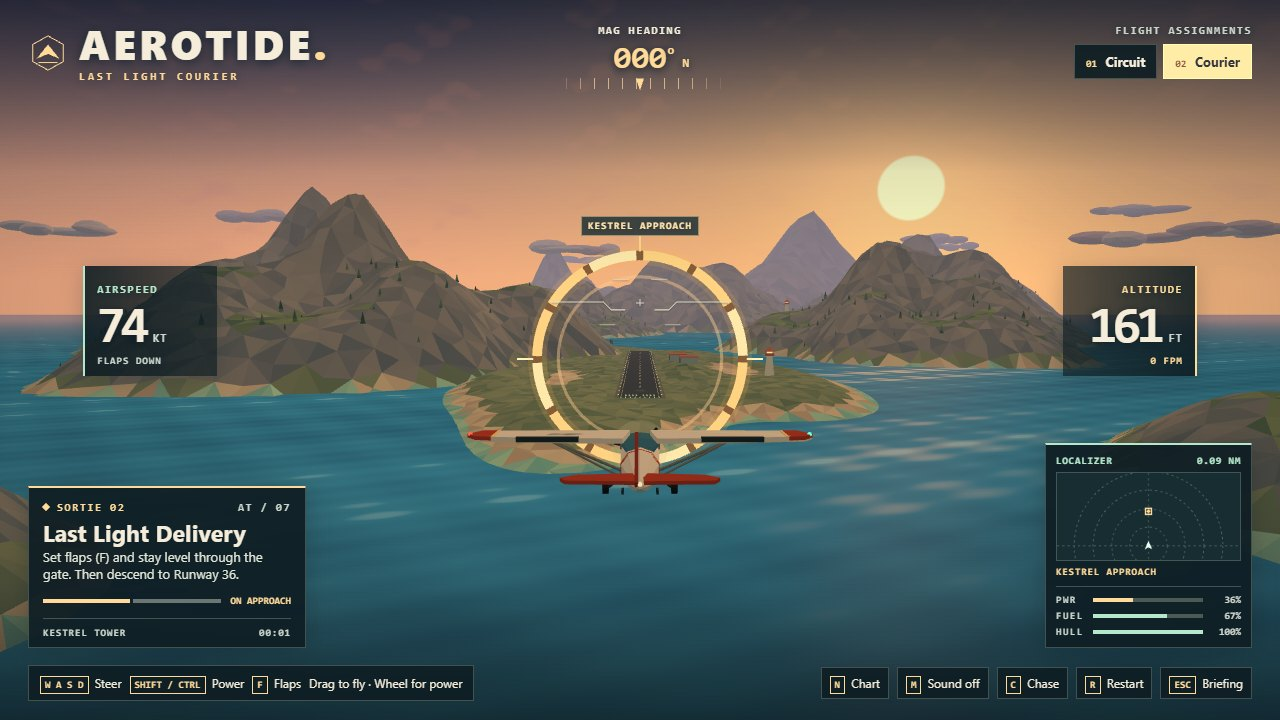
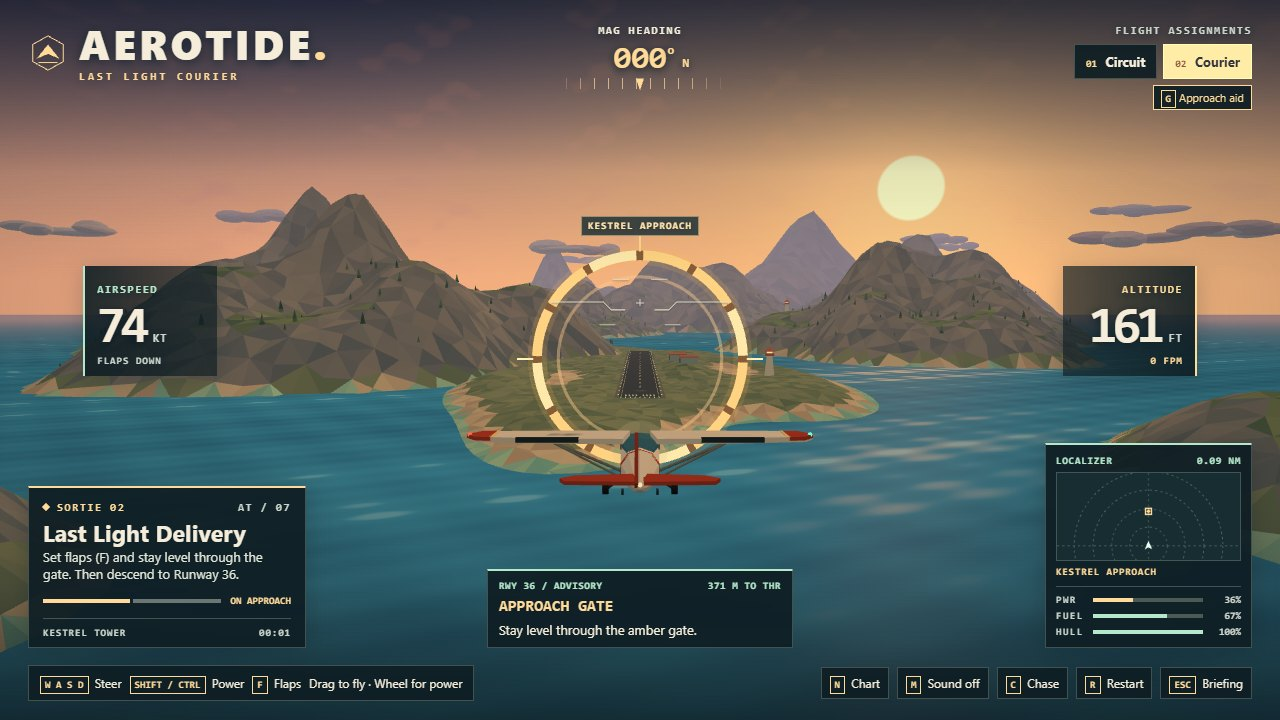
Build original flight bounty entry

Changed region(s): [[0.375, 0.7639, 0.625, 0.9167], [0.875, 0.0917, 1.0, 0.1528], [0.4375, 0.6111, 0.4688, 0.6417]]

diff --git a/game/hud.js b/game/hud.js
@@ -1,8 +1,9 @@
 
 import * as T from './vendor/three.module.min.js';
-import {compassDegrees,signedAngle} from './flight.js';
+import {compassDegrees,horizonRollDegrees,signedAngle} from './flight.js';
 import {SORTIES,bearingToTarget,targetForSortie} from './missions.js';
 import {STRIP} from './airspace.js';
+import {readApproach,rangeToThreshold} from './approach.js';
 
 const item=id=>document.getElementById(id);
 const put=(el,value)=>{if(el.textContent!==String(value)) el.textContent=value;};
@@ -44,29 +45,48 @@ function drawLocalizer(ctx,flight,sortie,target) {
   ctx.fillStyle='#e7fff4';ctx.fill();
 }
 
-function landingInstruction(flight,sortie) {
+function essentialLandingCall(flight,sortie) {
   if(flight.grounded) return 'HOLD SPACE TO BRAKE';
   if(sortie.id!=='courier') return '';
   if(sortie.index===0 && !flight.flaps && flight.z>=SORTIES.courier.gates[0].z)
     return 'SET FLAPS [F] · STAY LEVEL THROUGH GATE';
   if(sortie.index!==1) return '';
   if(Math.abs(flight.x-STRIP.x)>17 || Math.abs(signedAngle(flight.heading))>.19)
-    return 'LINE UP WITH RUNWAY 36';
-  if(flight.y<=10.2 && flight.z<STRIP.near+10 && flight.z>STRIP.far)
+    return '';
+  if(flight.y<=10.2 && flight.z<STRIP.near+10 && flight.z>STRIP.near-145)
     return 'FLARE NOW · RELEASE S / DOWN';
-  if(flight.y<19 && flight.z<92 && flight.z>STRIP.far)
+  if(flight.y<19 && flight.z<92 && flight.z>STRIP.near-145)
     return 'AT 32 FT · RELEASE S / DOWN TO FLARE';
-  return 'DESCEND [S / DOWN] · AIM AT THE CENTERLINE';
+  return '';
 }
 
 export function bindFlightInstruments() {
   const ids=['speed','altitude','heading','cardinal','vertical','flight-config','attitude','marker','caution',
     'flight-number','mission-title','objective','progress','progress-label','radio','flight-time',
     'scope','target-range','scope-label','power','fuel','hull','power-value','fuel-value','hull-value',
-    'status-panel','status-tag','status-title','status-copy','action','route','courier','help','sound','camera','review-flight'];
+    'status-panel','status-tag','status-title','status-copy','action','route','courier','help','sound','camera','review-flight',
+    'aid-toggle','aid','aid-phase','aid-range','aid-readings','aid-course','aid-path','aid-speed','aid-hint'];
   const e=Object.fromEntries(ids.map(id=>[id,item(id)]));
   const ctx=e.scope.getContext('2d'), vector=new T.Vector3();
   let lastStage='',lastIndex=-1,lastMission='';
+  let aidEnabled=true;
+  function updateApproach(flight,sortie,primary,report) {
+    e['aid-toggle'].hidden=sortie.id!=='courier';
+    e.aid.hidden=!aidEnabled || !report;
+    if(e.aid.hidden) return;
+    const {phase,distance,course,vertical,airspeed,hint}=report;
+    put(e['aid-phase'],phase);
+    put(e['aid-range'],rangeToThreshold(distance));
+    e['aid-readings'].hidden=!course;
+    if(course) {
+      put(e['aid-course'],course);
+      put(e['aid-path'],vertical);
+      put(e['aid-speed'],airspeed);
+    }
+    // Never present secondary instructions alongside a primary cockpit call.
+    e['aid-hint'].hidden=!!primary;
+    if(!primary) put(e['aid-hint'],hint);
+  }
   function showStage(sortie) {
     const stage=sortie.status;
     const stageChanged=stage!==lastStage || sortie.id!==lastMission;
@@ -108,9 +128,15 @@ export function bindFlightInstruments() {
         put(e[id+'-value'],pct(value)+'%');
       }
       const radioCall=flight.seconds<sortie.noticeUntil?sortie.notice:'';
-      const info=flight.warning || (radioCall.includes('MISSED')?radioCall:landingInstruction(flight,sortie) || radioCall);
+      const primary=flight.warning || (radioCall.includes('MISSED')?radioCall:essentialLandingCall(flight,sortie));
+      const report=readApproach(flight,sortie);
+      const fallback=!aidEnabled && report?.course
+        ? report.course!=='CENTERED'?'LINE UP WITH RUNWAY 36':'DESCEND [S / DOWN] · AIM AT THE CENTERLINE'
+        : '';
+      const info=primary || fallback || radioCall;
       e.caution.hidden=!info || sortie.status!=='active';
       if(info) put(e.caution,info);
+      updateApproach(flight,sortie,primary,report);
       if(lastIndex!==sortie.index || lastMission!==sortie.id){
         put(e['flight-number'],'SORTIE '+config.number);
         put(e['mission-title'],config.label);
@@ -140,7 +166,7 @@ export function bindFlightInstruments() {
       return {target,relative};
     },
     situate(flight,target,relative,camera,w,h){
-      e.attitude.style.rotate=(-flight.bank*19).toFixed(1)+'deg';
+      e.attitude.querySelector('.ladder').style.rotate=horizonRollDegrees(flight.bank).toFixed(1)+'deg';
       if(!target){e.marker.hidden=true;return;}
       vector.set(target.x,target.y+(target.r?target.r+8:8),target.z).project(camera);
       const inFront=Math.abs(relative)<1.52;
@@ -162,6 +188,11 @@ export function bindFlightInstruments() {
     setCamera(wide){
       e.camera.setAttribute('aria-pressed',String(wide));
       e.camera.lastChild.textContent=wide?' Wide':' Chase';
+    },
+    toggleAid(){
+      aidEnabled=!aidEnabled;
+      e['aid-toggle'].setAttribute('aria-pressed',String(aidEnabled));
+      if(!aidEnabled) e.aid.hidden=true;
     }
   };
 }

diff --git a/game/instruments.css b/game/instruments.css
@@ -54,10 +54,21 @@ button:hover{filter:brightness(1.19)}
 .number small{font-size:12px;letter-spacing:.05em;margin-left:8px;color:var(--soft)}
 #attitude{position:absolute;left:50%;top:42%;width:182px;translate:-50% -50%;pointer-events:none;color:#fbf5dd;opacity:.77;filter:drop-shadow(0 1px 1px #39464d)}
 #attitude svg{display:block;width:100%;fill:none;stroke:currentColor;stroke-width:1.2}
-#attitude .ladder{opacity:.64}
+#attitude .ladder{opacity:.80;transform-origin:92px 36px}
 .target-marker{position:absolute;left:50%;top:30%;transform:translate(-50%,-50%);pointer-events:none;white-space:nowrap;color:#ffe6b0;text-shadow:0 1px 4px #332b26}
 .target-marker span{display:block;padding:3px 6px;background:#223338dc;border:1px solid #f9d79e85;font:700 10px var(--mono);letter-spacing:.1em}
 .caution{position:absolute;top:18%;left:50%;translate:-50% 0;min-width:172px;text-align:center;pointer-events:none;color:#ffdd9e;background:#281e23ef;border:1px solid #f2b77a80;padding:7px 10px;font:700 12px var(--mono);letter-spacing:.15em}
+#aid-toggle{margin-top:6px;background:var(--panel);border:1px solid var(--line);padding:4px 7px;color:var(--soft);font-size:11px}
+#aid-toggle[aria-pressed="true"]{border-color:var(--gold);color:var(--gold)}
+.approach-aid{position:absolute;bottom:72px;left:50%;translate:-50% 0;width:min(306px,43vw);pointer-events:none;
+  background:var(--panel);padding:9px 11px;border:1px solid var(--line);border-top:2px solid var(--mint)}
+#flight-deck:has(dialog[open]) .approach-aid{visibility:hidden}
+.approach-aid header,.approach-aid dl{display:flex;gap:5px;justify-content:space-between}
+.approach-aid header,.approach-aid dt{font:700 10px var(--mono);color:var(--mint);letter-spacing:.06em}
+#aid-phase{font:700 16px var(--mono);margin:4px 0;color:var(--gold)}
+.approach-aid p{font-size:13px;margin:7px 0 0;line-height:1.22}
+.approach-aid dl{border-top:1px solid var(--line);margin:6px 0 0;padding-top:6px}
+.approach-aid dd{margin:3px 0 0;font:700 11px var(--mono)}
 .brief,.systems{position:absolute;bottom:72px;width:278px;background:var(--panel);border:1px solid var(--line);box-shadow:0 5px 28px #10202750}
 .brief{left:28px;border-top:2px solid var(--gold);padding:13px 14px 0}
 .brief-top{color:var(--gold);display:flex;align-items:center;gap:8px}
@@ -151,6 +162,9 @@ kbd{font:700 10px var(--mono);padding:2px 4px;border:1px solid currentColor;whit
 }
 @media(max-width:970px){.mouse-hint{display:none}.brief{width:224px}.systems{width:172px}.gauges{left:4%;right:4%}}
 @media(max-width:720px){
+  .caution{top:max(130px,23%);max-width:calc(100% - 24px);font-size:10px;letter-spacing:.08em}
+  .approach-aid{bottom:54px;left:calc(50% + 29px);width:min(260px,calc(100% - 335px));padding:7px 8px}
+  .approach-aid header,.approach-aid dt,.approach-aid dd{font-size:9px}
   .mast,.command-strip{left:12px;right:12px}.mast{top:13px;grid-template-columns:1fr auto}
   .heading-instrument{position:absolute;top:53px;left:50%;translate:-50% 0;width:143px}
   .heading-line{font-size:25px}.compass-track{width:116px}
@@ -164,7 +178,11 @@ kbd{font:700 10px var(--mono);padding:2px 4px;border:1px solid currentColor;whit
   .actions{gap:3px}.actions button{font-size:10px;padding:5px}.actions kbd{display:none}
   .status-panel{bottom:auto;top:67%;translate:-50% -50%;width:min(280px,68vw);z-index:2;padding:8px 12px}.status-panel h2{font-size:19px}
 }
+@media(max-width:565px){
+  .approach-aid{bottom:200px;left:50%;width:min(260px,78vw)}
+  #aid-toggle{font-size:10px}
+}
 @media(max-height:510px) and (min-width:721px){
   .mast{top:12px}.brief,.systems{bottom:56px}.command-strip{bottom:12px}.brief p{min-height:0}.gauges{top:34%}
-  .status-panel{bottom:58px}.radar{display:none}
+  .status-panel{bottom:58px}.radar{display:none}.approach-aid{bottom:56px}
 }

diff --git a/game/approach.js b/game/approach.js
@@ -1,0 +1,67 @@
+import {STRIP} from './airspace.js';
+import {signedAngle} from './flight.js';
+import {SORTIES} from './missions.js';
+
+const FEET=3.28084, KNOTS=1.94384;
+const GATE=SORTIES.courier.gates[0];
+const FLARE_DISTANCE=45;
+const FLARE_ALTITUDE=32/FEET;
+const DESCENT_START=49;
+const DESCENT_GRADE=(DESCENT_START-FLARE_ALTITUDE)/(GATE.z-STRIP.near+FLARE_DISTANCE);
+
+export function profileAltitude(distance) {
+  // Indicated altitude above sea level, not height above the runway.
+  return FLARE_ALTITUDE+DESCENT_GRADE*Math.max(0,distance+FLARE_DISTANCE);
+}
+
+function finalApproach(flight,distance) {
+  const offset=flight.x-STRIP.x;
+  const heading=signedAngle(flight.heading);
+  const bank=Math.abs(flight.bank);
+  const speed=flight.speed*KNOTS;
+  const tolerance=Math.max(STRIP.width*.25,Math.max(0,distance)*.085);
+  const altitudeDelta=(flight.y-profileAltitude(distance))*FEET;
+  const onStrip=distance<=0 && Math.abs(offset)<=STRIP.width/2;
+  const phase=onStrip?'OVER STRIP':'FINAL';
+  const lateral=offset>tolerance?'LEFT OF NOSE':offset< -tolerance?'RIGHT OF NOSE':'CENTERED';
+  const vertical=altitudeDelta>14?'HIGH':altitudeDelta< -14?'LOW':'ON PROFILE';
+  const airspeed=speed<55?'SLOW':speed>85?'FAST':'IN BAND';
+  const course=bank>.18?'BANKED':Math.abs(heading)>.15?'OFF HEADING':lateral;
+  let hint;
+  if(bank>.18) hint='Level the wings.';
+  else if(lateral!=='CENTERED') hint=offset>0?'Ease left to intercept the centerline.':'Ease right to intercept the centerline.';
+  else if(Math.abs(heading)>.15) hint='Align to heading 000°.';
+  else if(airspeed==='SLOW') hint='Add power. Avoid raising the nose sharply.';
+  else if(airspeed==='FAST') hint=flight.flaps?'Reduce power toward 55–85 kt.':'Reduce power; set flaps when stable.';
+  else if(!flight.flaps) hint='Set flaps [F] for the approach.';
+  else if(vertical==='LOW' && !onStrip) hint='Ease off descent; add power if needed.';
+  else if(vertical==='HIGH') hint='Lower the nose gently to regain the profile.';
+  else if(flight.sink>5.7 && distance<35) hint='Ease off descent near the threshold.';
+  else hint=onStrip?'Hold centerline. Flare at 32 ft.':'Track the centerline; keep 55–85 kt.';
+  return {phase,distance,course,vertical,airspeed,hint};
+}
+
+export function readApproach(flight,sortie) {
+  if(sortie.id!=='courier' || sortie.status!=='active' || flight.grounded || !flight.intact) return null;
+  const distance=flight.z-STRIP.near;
+  const heading=signedAngle(flight.heading);
+  const thresholdAhead=Math.cos(heading)>0;
+  if(sortie.index===0) {
+    const passed=flight.z<GATE.z;
+    return {
+      phase:passed?'REJOIN GATE':'APPROACH GATE',distance,
+      hint:passed?'Climb clear and re-enter the gate heading north.':
+        !thresholdAhead?'Turn toward the gate before descending.':
+        flight.flaps?'Stay level through the amber gate.':'Set flaps [F]; stay level through the gate.'
+    };
+  }
+  if(distance>650 || !thresholdAhead || distance< -145 ||
+    (distance<0 && Math.abs(flight.x-STRIP.x)>STRIP.width/2)) {
+    return {phase:'REPOSITION',distance,hint:'Climb clear. Rejoin south of Runway 36.'};
+  }
+  return finalApproach(flight,distance);
+}
+
+export function rangeToThreshold(distance) {
+  return distance>=0?Math.round(distance)+' M TO THR':Math.round(-distance)+' M PAST THR';
+}

diff --git a/game/input.js b/game/input.js
@@ -1,9 +1,9 @@
 
-export function connectPilotControls(field,command) {
+export function connectPilotControls(field,command,brakeOverridesButton) {
   const keys=new Set();
   const captured=new Set(['KeyW','KeyA','KeyS','KeyD','ArrowUp','ArrowDown','ArrowLeft','ArrowRight',
-    'ShiftLeft','ShiftRight','ControlLeft','ControlRight','Space','KeyF','KeyM','KeyR','Escape','KeyC','KeyN']);
-  let stick=null,wheel=0;
+    'ShiftLeft','ShiftRight','ControlLeft','ControlRight','Space','KeyF','KeyM','KeyR','Escape','KeyC','KeyN','KeyG']);
+  let stick=null,wheel=0,brakingSpace=false;
   const limit=value=>Math.max(-1,Math.min(1,value));
   const clear=()=>{keys.clear();stick=null;wheel=0;field.classList.remove('steering');};
   window.addEventListener('blur',clear);
@@ -12,15 +12,25 @@ export function connectPilotControls(field,command) {
     if(event.altKey || event.metaKey || (event.ctrlKey && !event.code.startsWith('Control') &&
       !['ArrowUp','ArrowDown','ArrowLeft','ArrowRight'].includes(event.code))) return;
     if(event.target.closest?.('dialog[open]') && event.code!=='KeyN') return;
-    if(!captured.has(event.code) || (event.target.closest?.('button') && event.code==='Space')) return;
+    if(!captured.has(event.code)) return;
+    if(event.code==='Space') {
+      if(!event.repeat) brakingSpace=brakeOverridesButton();
+      if(event.target.closest?.('button') && !brakingSpace) return;
+    }
     event.preventDefault();
     keys.add(event.code);
     if(event.repeat) return;
-    const actions={KeyF:'flaps',KeyM:'mute',KeyR:'restart',Escape:'pause',KeyC:'camera',KeyN:'chart',Space:'launch'};
+    const actions={KeyF:'flaps',KeyM:'mute',KeyR:'restart',Escape:'pause',KeyC:'camera',KeyN:'chart',KeyG:'aid',Space:'launch'};
     if(actions[event.code]) command(actions[event.code]);
     else if(!event.target.closest?.('button')) command('steer');
   });
-  window.addEventListener('keyup',event=>keys.delete(event.code));
+  window.addEventListener('keyup',event=>{
+    keys.delete(event.code);
+    if(event.code==='Space' && brakingSpace){
+      event.preventDefault();
+      brakingSpace=false;
+    }
+  });
   field.addEventListener('pointerdown',event=>{
     if(event.button!==0) return;
     stick={id:event.pointerId,homeX:event.clientX,homeY:event.clientY,x:0,y:0};

diff --git a/game/index.html b/game/index.html
@@ -41,6 +41,7 @@
         <button id="route" class="tab" type="button" aria-pressed="true"><b>01</b> Circuit</button>
         <button id="courier" class="tab" type="button" aria-pressed="false"><b>02</b> Courier</button>
       </div>
+      <button id="aid-toggle" type="button" aria-controls="aid" aria-pressed="true" hidden><kbd>G</kbd> Approach aid</button>
     </nav>
   </header>
 
@@ -63,6 +64,17 @@
   </svg></div>
   <div id="marker" class="target-marker" aria-hidden="true"><span></span></div>
   <div id="caution" role="status" class="caution" hidden></div>
+
+  <section id="aid" class="approach-aid" aria-label="Advisory runway approach information" hidden>
+    <header><span>RWY 36 / ADVISORY</span><span id="aid-range"></span></header>
+    <div id="aid-phase"></div>
+    <dl id="aid-readings" hidden>
+      <div><dt>COURSE</dt><dd id="aid-course"></dd></div>
+      <div><dt>GLIDE</dt><dd id="aid-path"></dd></div>
+      <div><dt>SPEED</dt><dd id="aid-speed"></dd></div>
+    </dl>
+    <p id="aid-hint"></p>
+  </section>
 
   <section class="brief" aria-labelledby="mission-title">
     <div class="brief-top micro"><i></i><span id="flight-number">SORTIE 01</span><span class="brief-code">AT / 07</span></div>

diff --git a/game/aerotide.js b/game/aerotide.js
@@ -64,6 +64,10 @@ function openFlightDeck() {
       return;
     }
     if(chart.visible && action!=='idle') return;
+    if(action==='aid'){
+      if(sortie.id==='courier') hud.toggleAid();
+      return;
+    }
     if(action==='mute'){
       hud.setSound(radio.toggle());return;
     }
@@ -92,7 +96,7 @@ function openFlightDeck() {
     }
   }
 
-  const input=connectPilotControls(viewport,handleCommand);
+  const input=connectPilotControls(viewport,handleCommand,()=>flight.grounded && sortie.status==='active');
   function suspendControls() {
     input.clear();
     frameBudget=0;
@@ -108,6 +112,10 @@ function openFlightDeck() {
   for(const [id,action] of [['help','pause'],['sound','mute'],['camera','camera'],['restart','restart']]){
     query(id).addEventListener('click',()=>{handleCommand(action);query(id).blur();});
   }
+  query('aid-toggle').addEventListener('click',event=>{
+    handleCommand('aid');
+    if(event.detail>0) event.currentTarget.blur();
+  });
   query('action').addEventListener('click',()=>{
     if(sortie.status==='paused') handleCommand('pause');
     else if(sortie.status==='ready') handleCommand('launch');

diff --git a/game/flight.js b/game/flight.js
@@ -7,6 +7,7 @@ export const clamp=(value,low,high)=>Math.max(low,Math.min(high,value));
 const ease=(from,to,rate,dt)=>from+(to-from)*(1-Math.exp(-rate*dt));
 export const signedAngle=angle=>((angle+Math.PI)%TAU+TAU)%TAU-Math.PI;
 export const compassDegrees=heading=>(Math.round(heading*180/Math.PI)+360)%360;
+export const horizonRollDegrees=bank=>-bank*180/Math.PI;
 
 export function launchAircraft(mission) {
   const supply=mission==='courier';

diff --git a/README.md b/README.md
@@ -22,6 +22,7 @@ From the repository root, run `python -m http.server 8080 --bind 127.0.0.1 --dir
 | Hold Space on the runway | Brake |
 | Esc / C / M / R | Pause / switch chase camera / toggle sound / restart |
 | N or Chart | Open the north-up mission chart and suspend flight |
+| G or Approach aid | Show or hide the Courier's advisory director |
 
 ### Beacon Circuit
 
@@ -30,6 +31,8 @@ Fly through all four beacons in order. Only the current beacon counts; if you mi
 ### Last Light Delivery
 
 Set flaps with **F** before starting. Stay level until **LANDING CLEARED**. Stay on heading **000°** and aim along Runway 36's centerline at **55–85 kt**. On the default approach, hold **S** to descend; release it at about **32 ft indicated** to arrest the descent. Keep the wings level. Once **ON RUNWAY** appears, hold **Space** to brake and secure the cargo.
+
+The approach aid reports meters before or past the threshold. After gate clearance its advisory glide line runs from the default **161 ft** crossing altitude to **32 ft** about **45 m** into the strip (roughly 1 m down per 6 m traveled). This is a game-specific reference, not an autopilot or a terrain-clearance guarantee. Follow the primary flare, stall and braking calls first; climb and rejoin the approach if you pass the usable zone.
 
 ## Chart and flight debrief
 
